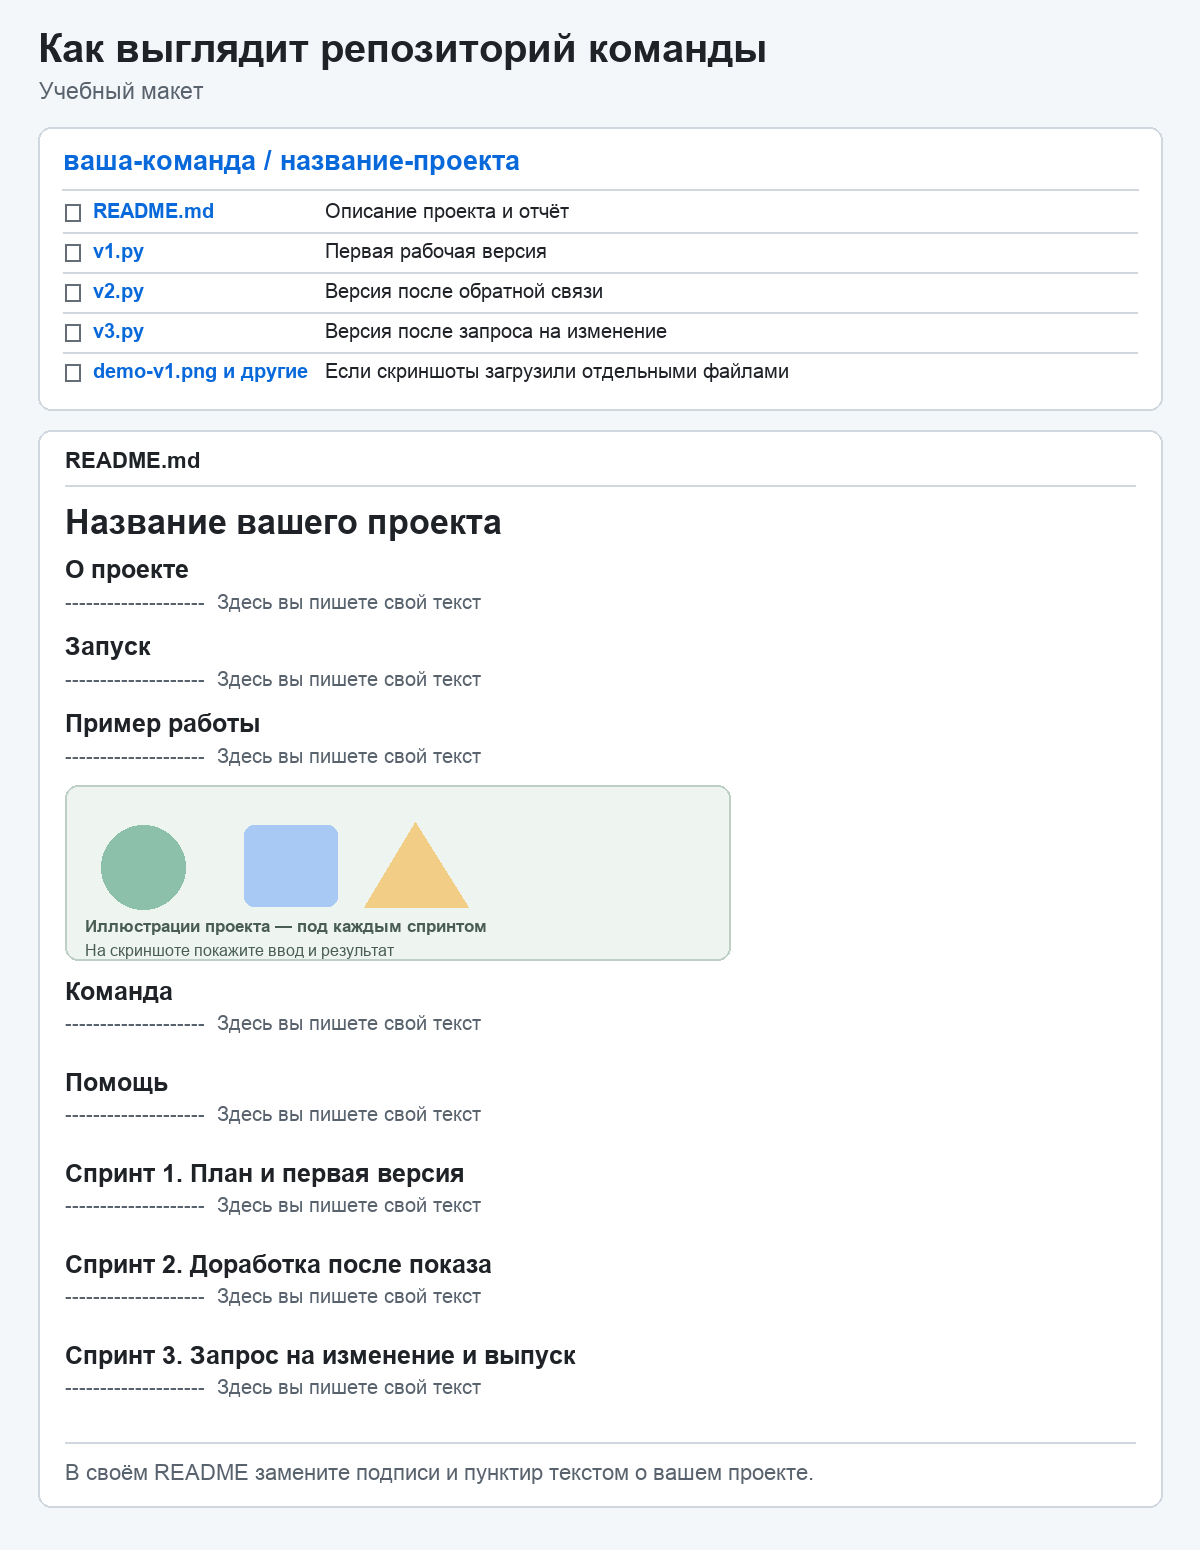
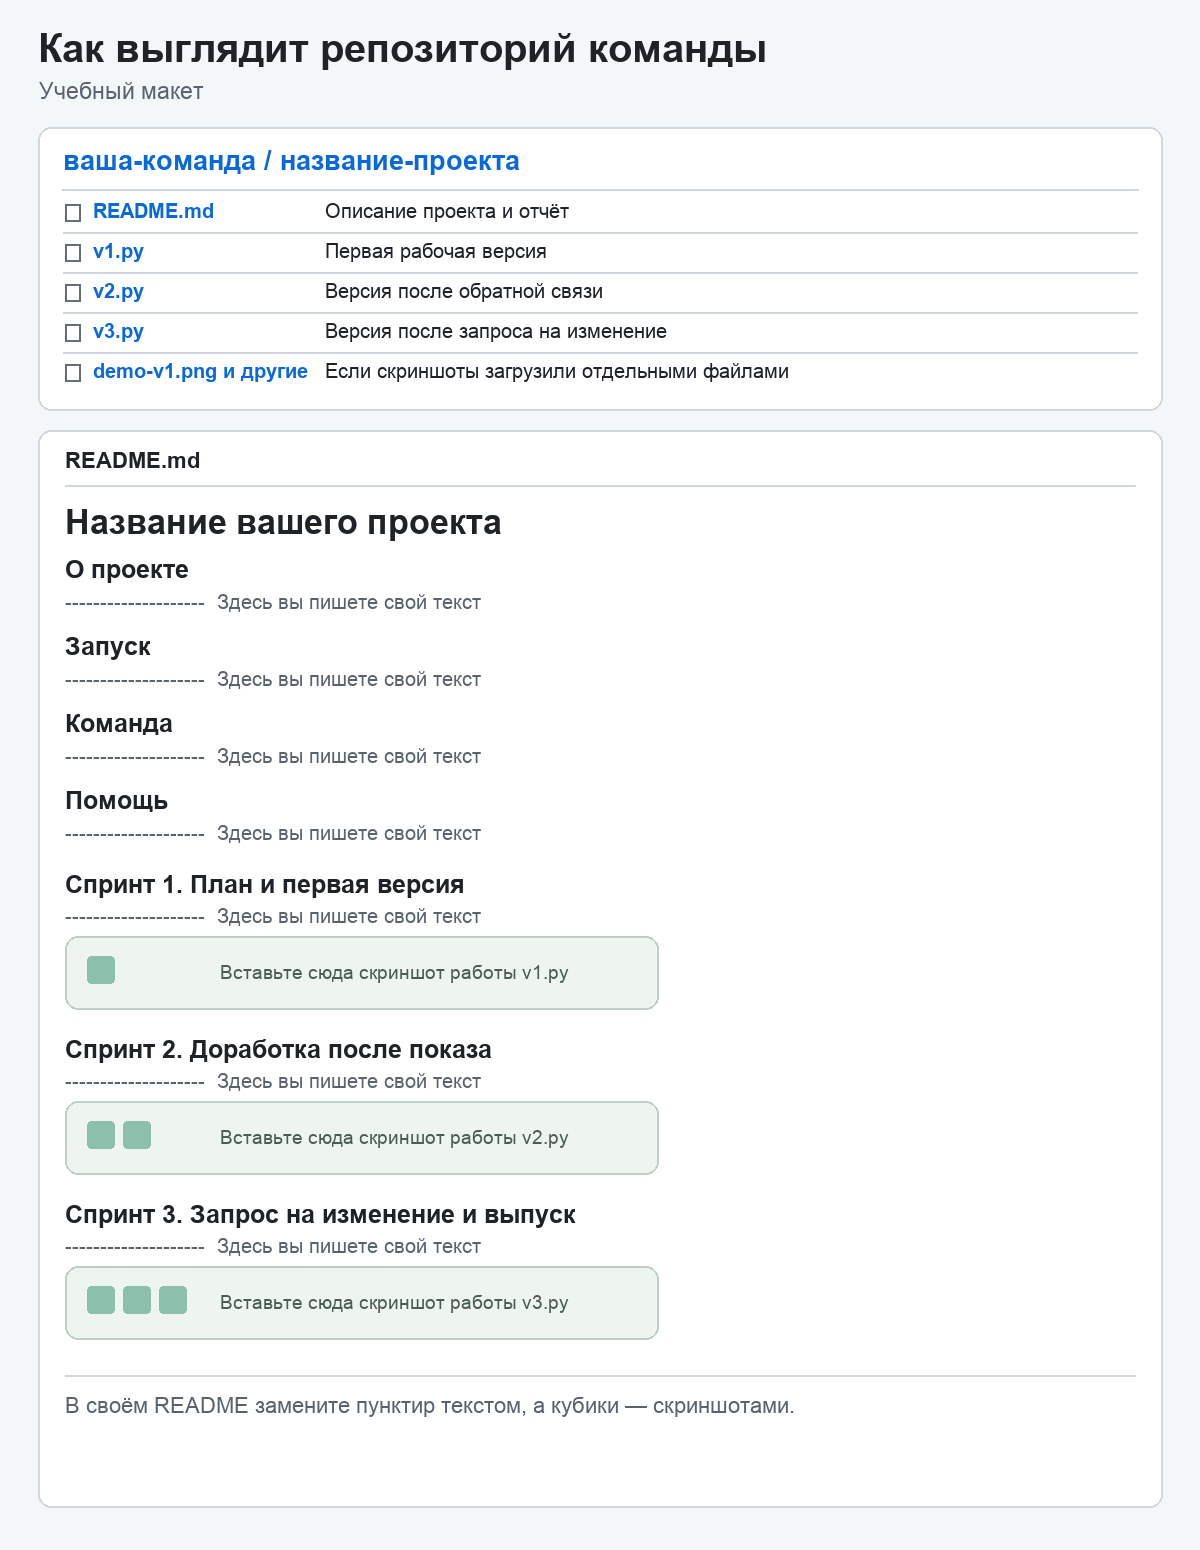
Keep screenshots within each sprint instead of a separate example section

Changed region(s): [[0.0308, 0.4645, 0.6783, 0.96]]

diff --git a/Шаблон трёх спринтов.md b/Шаблон трёх спринтов.md
@@ -10,10 +10,6 @@
 - [Вторая версия](v2.py) — …
 - [Третья версия](v3.py) — …
 
-## Пример работы
-
-Кратко опишите, что пользователь может сделать в последней версии. Скриншоты разместите ниже, в разделе каждого спринта.
-
 ## Команда
 
 Запишите имена участников и кто чем занимался.
@@ -33,7 +29,7 @@
 - **Что показали в v1:** …
 - **Какое замечание получили:** …
 
-**Скриншот v1.py.** Покажите основное действие первой версии: что ввели и что увидели.
+**Скриншот v1.py.** Замените шаблонную картинку с одним кубиком своим скриншотом. Покажите основное действие первой версии: что ввели и что увидели.
 
 ![Шаблон для скриншота спринта 1](demo-template-v1.png)
 
@@ -51,7 +47,7 @@
 - **Что поправили после показа:** …
 - **Что вошло в v2:** …
 
-**Скриншот v2.py.** Покажите, что добавили или исправили после замечания.
+**Скриншот v2.py.** Замените шаблонную картинку с двумя кубиками своим скриншотом. Покажите, что добавили или исправили после замечания.
 
 ![Шаблон для скриншота спринта 2](demo-template-v2.png)
 
@@ -72,6 +68,6 @@
 - **Что вошло в v3:** …
 - **Как пользоваться новой функцией:** …
 
-**Скриншот v3.py.** Покажите действие из запроса CR-1 и его результат.
+**Скриншот v3.py.** Замените шаблонную картинку с тремя кубиками своим скриншотом. Покажите действие из запроса CR-1 и его результат.
 
 ![Шаблон для скриншота спринта 3](demo-template-v3.png)

diff --git a/Три спринта.md b/Три спринта.md
@@ -85,8 +85,8 @@
 ### Что написать в README
 
 - **О проекте.** Что делает программа, кому она нужна и какую задачу решает.
-- **Запуск и пример работы.** Какой файл открыть, какую команду выполнить, что ввести и какой результат увидеть.
-- **Три спринта.** Что сделали в каждой версии и почему меняли программу.
+- **Запуск.** Какой файл открыть и какую команду выполнить.
+- **Три спринта.** Что сделали в каждой версии и почему меняли программу. Под каждым спринтом покажите на скриншоте ввод и результат.
 - **Команда и помощь.** Кто работал над проектом, кто может ответить на вопросы и куда написать, если программа не запускается.
 
 ### Где находится Raw
